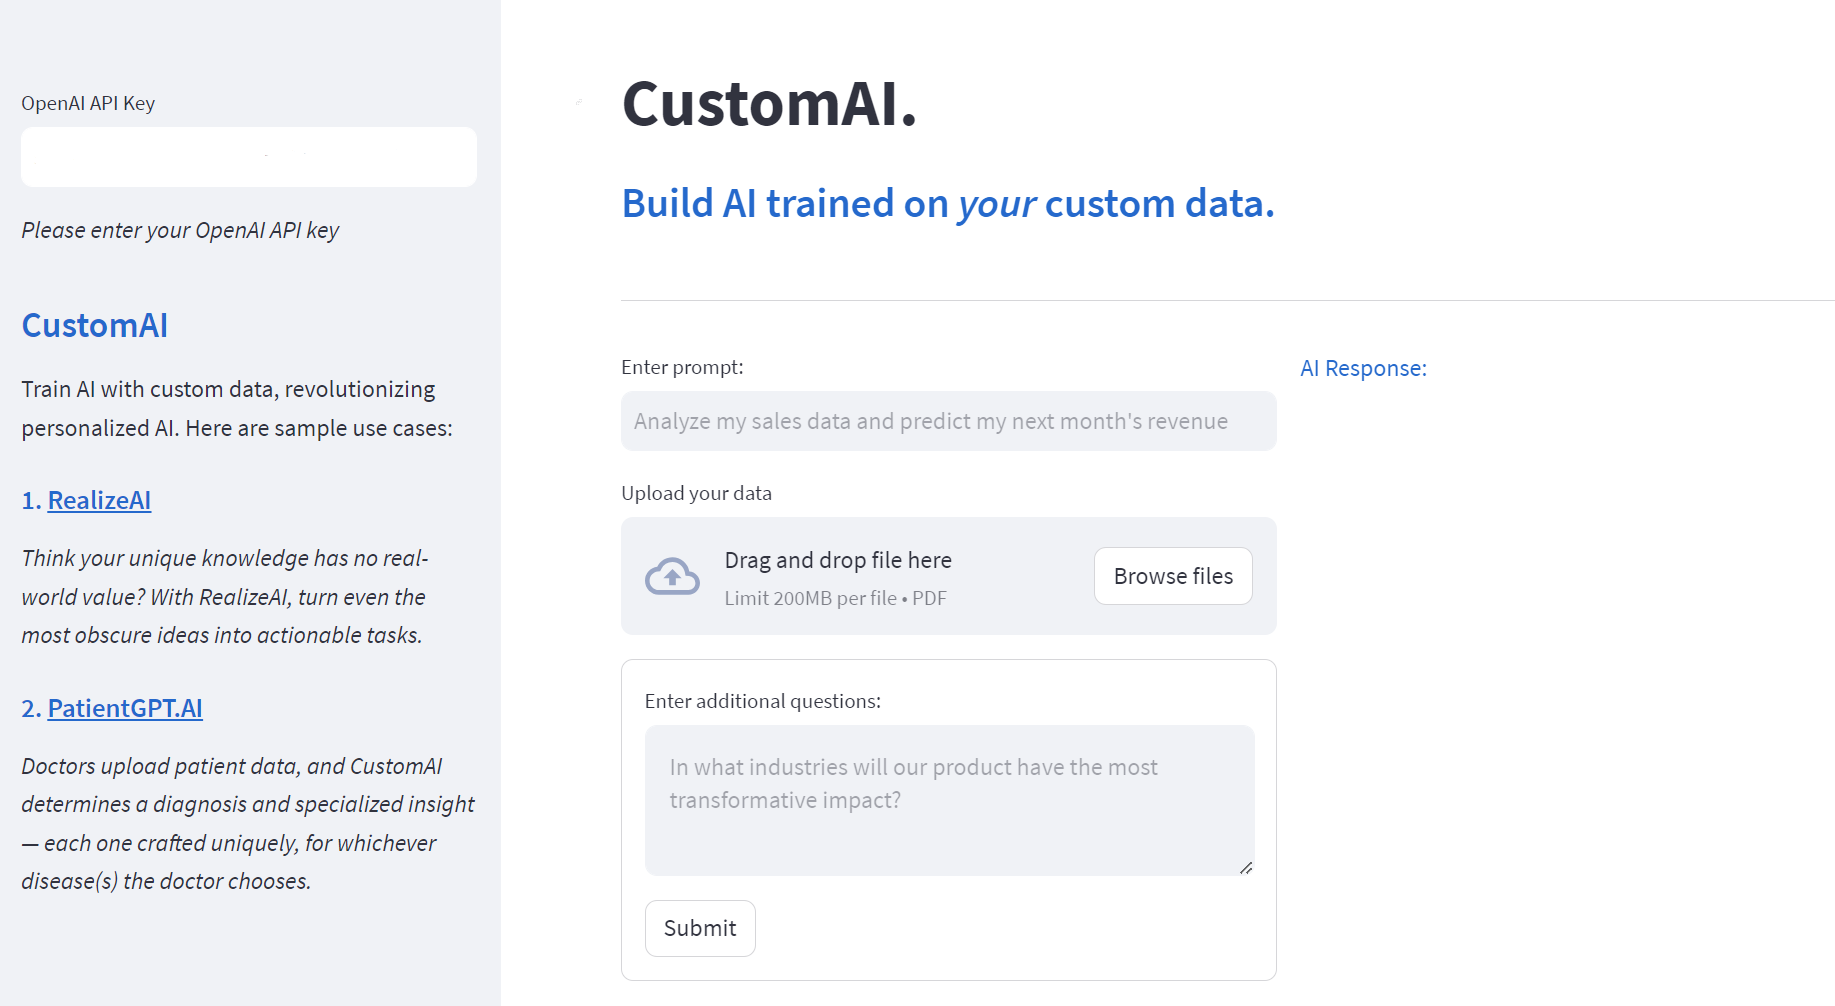
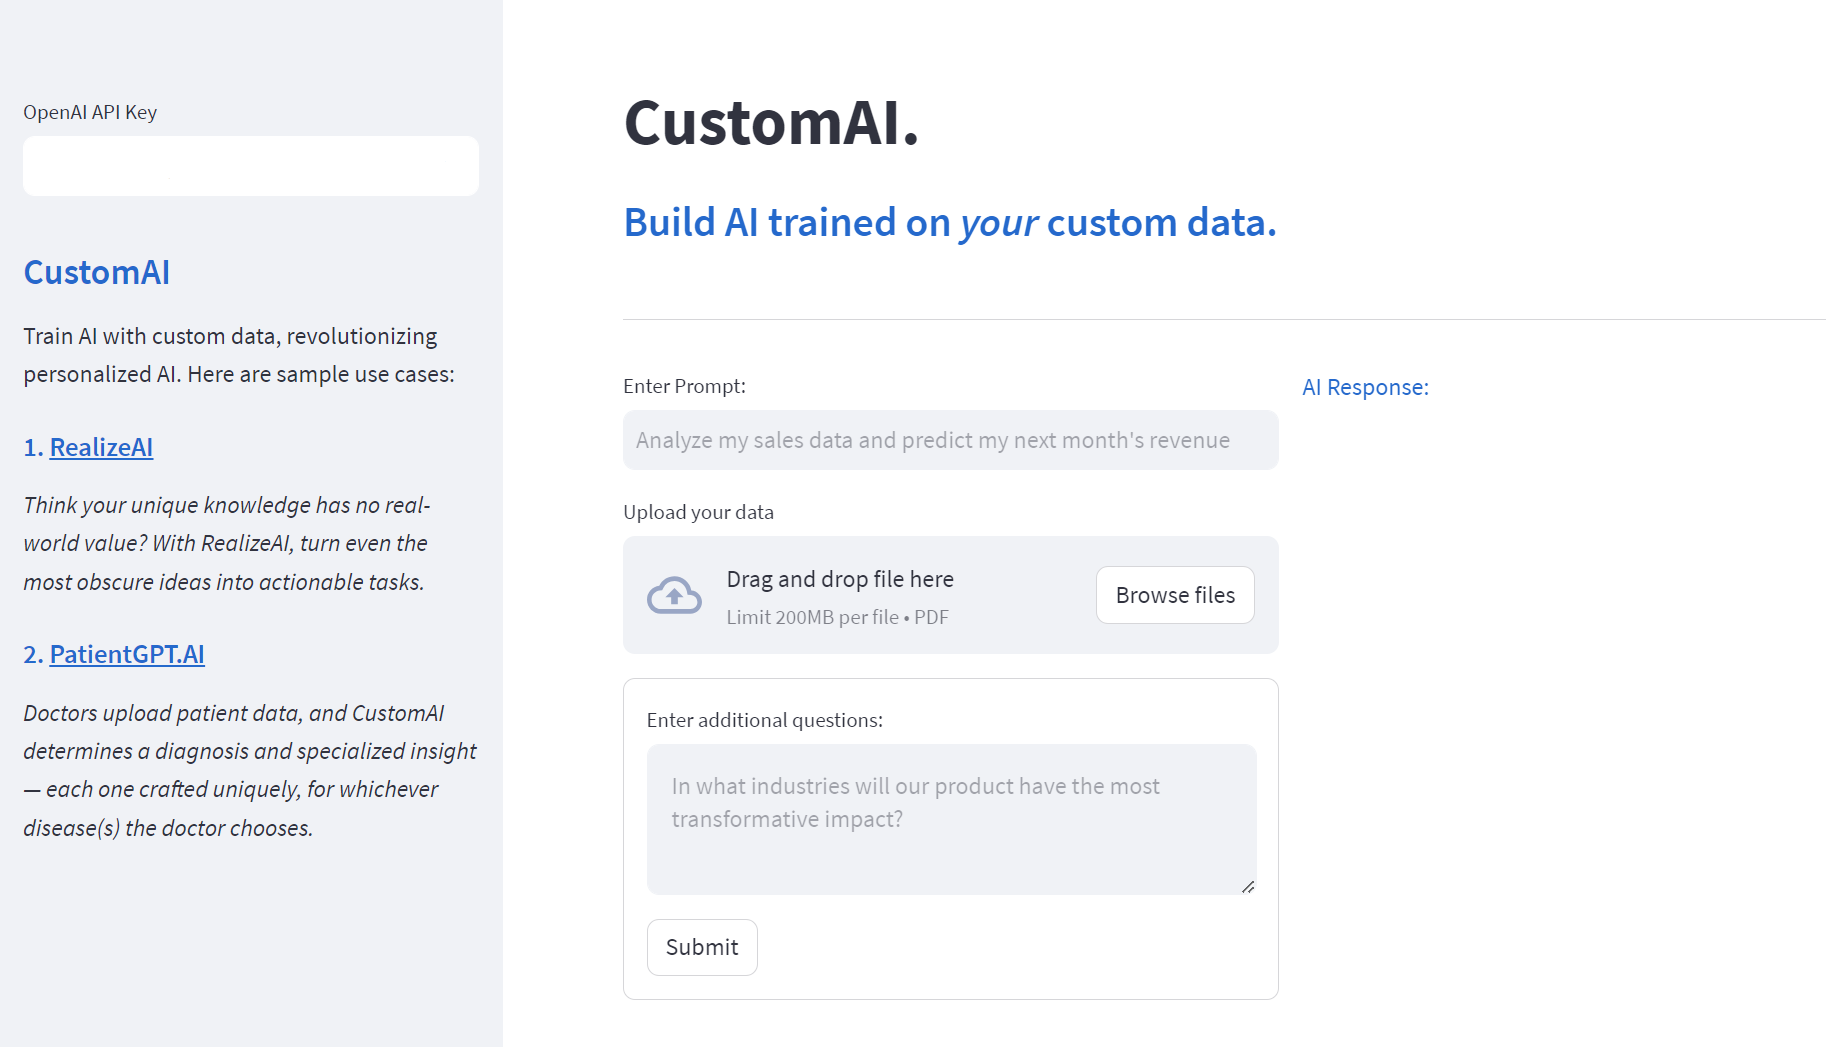
update app image

diff --git a/app.py b/app.py
@@ -41,8 +41,9 @@ st.set_page_config(page_title='CustomAI', layout='wide', page_icon = im)
 # Side bar
 
 # Side bar api key
-openai_api_key = st.sidebar.text_input('OpenAI API Key')
-st.sidebar.markdown("*Please enter your OpenAI API key*")
+placeholder_text_prompt = "Please enter your key"
+openai_api_key = st.sidebar.text_input("OpenAI API Key",value="", help="", key="api_input", placeholder=placeholder_text_prompt)
+
 os.environ['OPENAI_API_KEY'] = openai_api_key
 
 st.write("#")
@@ -190,7 +191,7 @@ with col1:
     chain = load_model()
 
     placeholder_text_prompt = "Analyze my sales data and predict my next month's revenue"
-    script = st.text_input("Enter prompt:",value="", help="", key="prompt_input", placeholder=placeholder_text_prompt)
+    script = st.text_input("Enter Prompt:",value="", help="", key="prompt_input", placeholder=placeholder_text_prompt)
     
     fileSaver()
 
